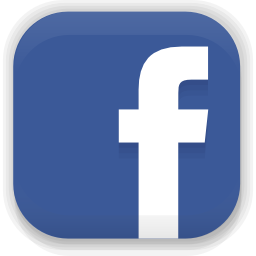
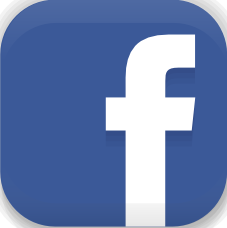
Nb films par catégories sur footer

Changed region(s): [[0.0, 0.0, 1.0, 1.0], [0.5859, 0.1228, 0.8634, 0.4298], [0.5242, 0.2149, 0.5859, 0.4298]]

diff --git a/public/js/admin.js b/public/js/admin.js
@@ -18,10 +18,10 @@ $(document).ready(function() {
     // windox.location renvoie les informations concernant l'url de la page
     // La propriété search renvoie le ? ainsi que les paramètres situés après le ? de l'url
     let pageParams = window.location.search
-    // let regExp = new RegExp('(?:page=articles){1}[a-z 1-9 = &]*(?:update=[0-9]+)')
+    // let regExp = new RegExp('(?:page=movies){1}[a-z 1-9 = &]*(?:update=[0-9]+)')
     // ?: signifie parenthèses non capturantes
     let regExp = new RegExp('(?:page=[a-z]+&){1}(?:action=update&)(?:id=[0-9]+)')
-    // On compare l'url avec l'expression régulière et s'il y a page=articles et update = "un chiffre" alors on cache le bouton et on affiche le formulaire
+    // On compare l'url avec l'expression régulière et s'il y a page=movies et update = "un chiffre" alors on cache le bouton et on affiche le formulaire
     if (pageParams.match(regExp)) {
         // $('button').hide()
         // $('bg-my-modal').fadeIn(500)

diff --git a/views/include-parts/footer.php b/views/include-parts/footer.php
@@ -34,7 +34,11 @@
                             echo '<div>'; 
                         } 
                     ?>
-                        <li><a href="/categorie/<?= strtolower($category->getName()); ?>/<?= $category->getId(); ?>"><?= $category->getName(); ?></a></li> 
+                        <li>
+                            <a href="/categorie/<?= strtolower($category->getName()); ?>/<?= $category->getId(); ?>">
+                                <?= $category->getName() . ' (' . $movieManager->getNumberOfMoviesByCategory($category->getId()) . ')'; ?>
+                            </a>
+                        </li> 
                     <?php
                         $i++;
                     endforeach; 
@@ -46,10 +50,10 @@
     </div>
 
     <div id="reseau_social"> 
-        <a href="#"><img id ="logofb" class="logo_rs" src="/public/images/icones/ico_fb1.png" alt="facebook"></a>
-        <a href="#"><img class="logo_rs" src="/public/images/icones/ico_in.png" alt="linkedin"></a>
-        <a href="#"><img class="logo_rs" src="/public/images/icones/ico_insta.png" alt="instagram"></a>
-        <a href="#"><img class="logo_rs" src="/public/images/icones/ico_twitter.png" alt="twitter"></a>
+        <a href="https://www.facebook.com"><img id ="logofb" class="logo_rs" src="/public/images/icones/ico_fb.png" alt="facebook"></a>
+        <a href="https://fr.linkedin.com/"><img class="logo_rs" src="/public/images/icones/ico_in.png" alt="linkedin"></a>
+        <a href="https://www.instagram.com/"><img class="logo_rs" src="/public/images/icones/ico_insta.png" alt="instagram"></a>
+        <a href="https://twitter.com"><img class="logo_rs" src="/public/images/icones/ico_twitter.png" alt="twitter"></a>
     </div>
 
     <div id="copyright">

diff --git a/controllers/adminController.php b/controllers/adminController.php
@@ -2,6 +2,12 @@
 error_reporting(E_ALL);
 use App\DBFactory;
 use App\EntityManager\CategoryManager;
+use App\EntityManager\MovieManager;
+
+$categoryManager = new CategoryManager();
+$movieManager = new MovieManager();
+
+$categories = $categoryManager->getAllCategories();
 
 if (!isset($_SESSION['user']) || $_SESSION['user']->getRole() !== 'Admin') {
     header('Location: /connexion');
@@ -10,13 +16,13 @@ if (!isset($_SESSION['user']) || $_SESSION['user']->getRole() !== 'Admin') {
 $categoryManager = new CategoryManager();
 
 $title_page = "Administration Chromatic SinémA";
-$desc_page = "Gestion de tous les articles, films, commentaires et utilisateurs du site";
+$desc_page = "Gestion de tous les films, catégories, commentaires et utilisateurs du site";
 
 $jsFiles = ['admin.js'];
 
 $linkActiveNav = [
     'account' => null,
-    'articles' => null,
+    'movies' => null,
     'comments' => null,
     'categories' => null,
     'users' => null
@@ -30,8 +36,8 @@ $allCategories = $categoryManager->getAllCategories(); // Pour affichage dans fo
 if (isset($_GET['page'])) {
     $getPage = htmlspecialchars($_GET['page']);
 
-    if ($getPage === 'articles') {
-        require_once 'adminFormControllers/adminArticlesController.php';
+    if ($getPage === 'movies') {
+        require_once 'adminFormControllers/adminMoviesController.php';
     } 
     elseif ($getPage === 'comments') {
         require_once 'adminFormControllers/adminCommentsController.php';

diff --git a/controllers/adminFormControllers/adminMoviesController.php b/controllers/adminFormControllers/adminMoviesController.php
@@ -1,12 +1,8 @@
 <?php
-use App\EntityManager\MovieManager;
-$movieManager = new MovieManager();
+$movies = $movieManager->getAllMovies(); // $movieManager instancié dans adminController
 
-$movies = $movieManager->getAllMovies();
-$categories = $categoryManager->getAllCategories();
-
-$linkActiveNav['articles'] = 'active'; 
-$content = '../views/admin-parts/adminArticles.php';
+$linkActiveNav['movies'] = 'active'; 
+$content = '../views/admin-parts/adminMovies.php';
 
 
 if (isset($_POST['submit']) && $_POST['submit'] == 'Ajouter') {
@@ -26,7 +22,7 @@ if (isset($_POST['submit']) && $_POST['submit'] == 'Ajouter') {
     }
 
     $_SESSION['success'] = 'Le nouveau film a bien été ajouté';
-    header('Location: /administration?page=articles');
+    header('Location: /administration?page=movies');
 } 
 
 // -------------------------
@@ -64,7 +60,7 @@ elseif (isset($_GET['action']) && $_GET['action'] == 'update') {
         }
 
         $_SESSION['success'] = 'Le film a été mis à jour';
-        header('Location: /administration?page=articles');
+        header('Location: /administration?page=movies');
     }
 }
 
@@ -75,5 +71,5 @@ elseif (isset($_GET['action']) && $_GET['action'] == 'delete') {
     $id = htmlspecialchars($_GET['id']);
     $movieManager->delete($id);
     $_SESSION['success'] = 'Le film a été supprimé';
-    header('Location: /administration?page=articles');
+    header('Location: /administration?page=movies');
 }

diff --git a/views/admin-parts/adminMovies.php b/views/admin-parts/adminMovies.php
@@ -43,7 +43,7 @@
         <input type="reset" class="btn btn-dark" value='Annuler'>
     </form>
 </div>
-<table class="admin-articles table table-striped">
+<table class="table table-striped">
     <thead>
         <tr>
             <th>Image</th>
@@ -66,8 +66,8 @@
             <td><?= $movieManager->getNbCommentsForaMovie($movie->getId()); ?></td>
             <td><?= $movie->getIsPublished() || $movie->getMisEnAvant() ? 'oui' : 'non'; ?></td>
             <td class="icone-crud">
-                <a href="administration?page=articles&action=update&id=<?= $movie->getId(); ?>" class="btn btn-primary" title="Modifier"><i class="fas fa-pencil-alt"></i></a> 
-                <a href="administration?page=articles&action=delete&id=<?= $movie->getId(); ?>" class="btn btn-danger delete" title="Supprimer"><i class="fas fa-trash"></i></a>
+                <a href="administration?page=movies&action=update&id=<?= $movie->getId(); ?>" class="btn btn-primary" title="Modifier"><i class="fas fa-pencil-alt"></i></a> 
+                <a href="administration?page=movies&action=delete&id=<?= $movie->getId(); ?>" class="btn btn-danger delete" title="Supprimer"><i class="fas fa-trash"></i></a>
             </td>
         </tr>
         <?php endforeach ?>

diff --git a/views/include-parts/header.php b/views/include-parts/header.php
@@ -23,8 +23,8 @@
             <nav>
                 <ul>
                     <li><a href="/"><i class="fas fa-home"></i> Home</a></li>
-                    <li><a href=""><i class="fas fa-tv"></i> Séries</a></li>
-                    <li><a href=""><i class="fas fa-podcast"></i> Podcasts</a></li>
+                    <li><a href="/"><i class="fas fa-tv"></i> Séries</a></li>
+                    <li><a href="/"><i class="fas fa-podcast"></i> Podcasts</a></li>
                     <li><a href="/contact"><i class="fas fa-phone-alt"></i> Contact</a></li>
                 </ul>
             </nav>
@@ -33,7 +33,7 @@
             <?php
             if (isset($_SESSION['user']) && $_SESSION['user']->getRole() == 'Admin'): ?>
                 <a href="/">Bienvenue <?= $_SESSION['user']->getName(); ?></a>
-                <a href="/administration?page=articles" class="btn btn-dark">Admin</a>
+                <a href="/administration?page=movies" class="btn btn-dark">Admin</a>
             <?php 
             elseif(isset($_SESSION['user']) && $_SESSION['user']->getRole() == 'User'): ?>
                 <a href="/">Bienvenue <?= $_SESSION['user']->getName(); ?></a>

diff --git a/views/admin.php b/views/admin.php
@@ -18,7 +18,7 @@
 
     <nav>
         <ul class="tabs">
-            <li><a href="administration?page=articles" class="<?= $linkActiveNav['articles']; ?>">Movies</a></li>
+            <li><a href="administration?page=movies" class="<?= $linkActiveNav['movies']; ?>">Films</a></li>
             <li><a href="administration?page=categories" class="<?= $linkActiveNav['categories']; ?>">Categories</a></li>
             <li><a href="administration?page=comments" class="<?= $linkActiveNav['comments']; ?>">Commentaires</a></li>
             <li><a href="administration?page=users" class="<?= $linkActiveNav['users']; ?>">Utilisateurs</a></li>
@@ -31,5 +31,6 @@
         require $content;
     }
     ?>
+</div>    
     
 <?php require_once 'include-parts/footer.php'; ?>

diff --git a/controllers/adminFormControllers/adminCommentsController.php b/controllers/adminFormControllers/adminCommentsController.php
@@ -1,11 +1,9 @@
 <?php
 use App\EntityManager\CommentManager;
-use App\EntityManager\MovieManager;
 
 $commentManager = new CommentManager();
-$movieManager = new MovieManager();
 
-$movies = $movieManager->getAllMovies();
+$movies = $movieManager->getAllMovies(); // $movieManager instancié dans adminController
 $comments = $commentManager->getAllComments();
 $linkActiveNav['comments'] = 'active'; 
 $content = '../views/admin-parts/adminComments.php';

diff --git a/controllers/articleController.php b/controllers/articleController.php
@@ -15,8 +15,6 @@ $movie = $movieManager->getOne($vars['id']);
 
 $comments = $commentManager->getAllCommentsForMovie($vars['id']);
 $catForThisMovie = $movieManager->getCategoriesForAMovie($vars['id']);
-// var_dump($catForThisMovie);
-
 
 if ($vars['slug'] == $movie->getSlug() && ($movie->getIsPublished() || $movie->getMisEnAvant())) {
     $title_page = 'Article '. $movie->getTitle();

diff --git a/controllers/loginController.php b/controllers/loginController.php
@@ -28,7 +28,7 @@ if (isset($_POST['login']) && !empty($_POST['login']) && isset($_POST['password'
         $role = $user->getRole();
 
         if ($role == 'Admin') {
-            header('Location: /administration?page=articles');
+            header('Location: /administration?page=movies');
         }
         else {
             header('Location: /');

diff --git a/controllers/contactController.php b/controllers/contactController.php
@@ -1,7 +1,10 @@
 <?php
 use App\EntityManager\CategoryManager;
+use App\EntityManager\MovieManager;
 
 $categoryManager = new CategoryManager();
+$movieManager = new MovieManager();
+
 $allCategories = $categoryManager->getAllCategories();
 
 $title_page = "Contact Chromatic SinémA";

diff --git a/controllers/adminFormControllers/adminCategoriesController.php b/controllers/adminFormControllers/adminCategoriesController.php
@@ -1,8 +1,4 @@
 <?php
-use App\EntityManager\MovieManager;
-$movieManager = new MovieManager();
-
-$categories = $categoryManager->getAllCategories();
 $linkActiveNav['categories'] = 'active';
 $content = '../views/admin-parts/adminCategories.php';
 
